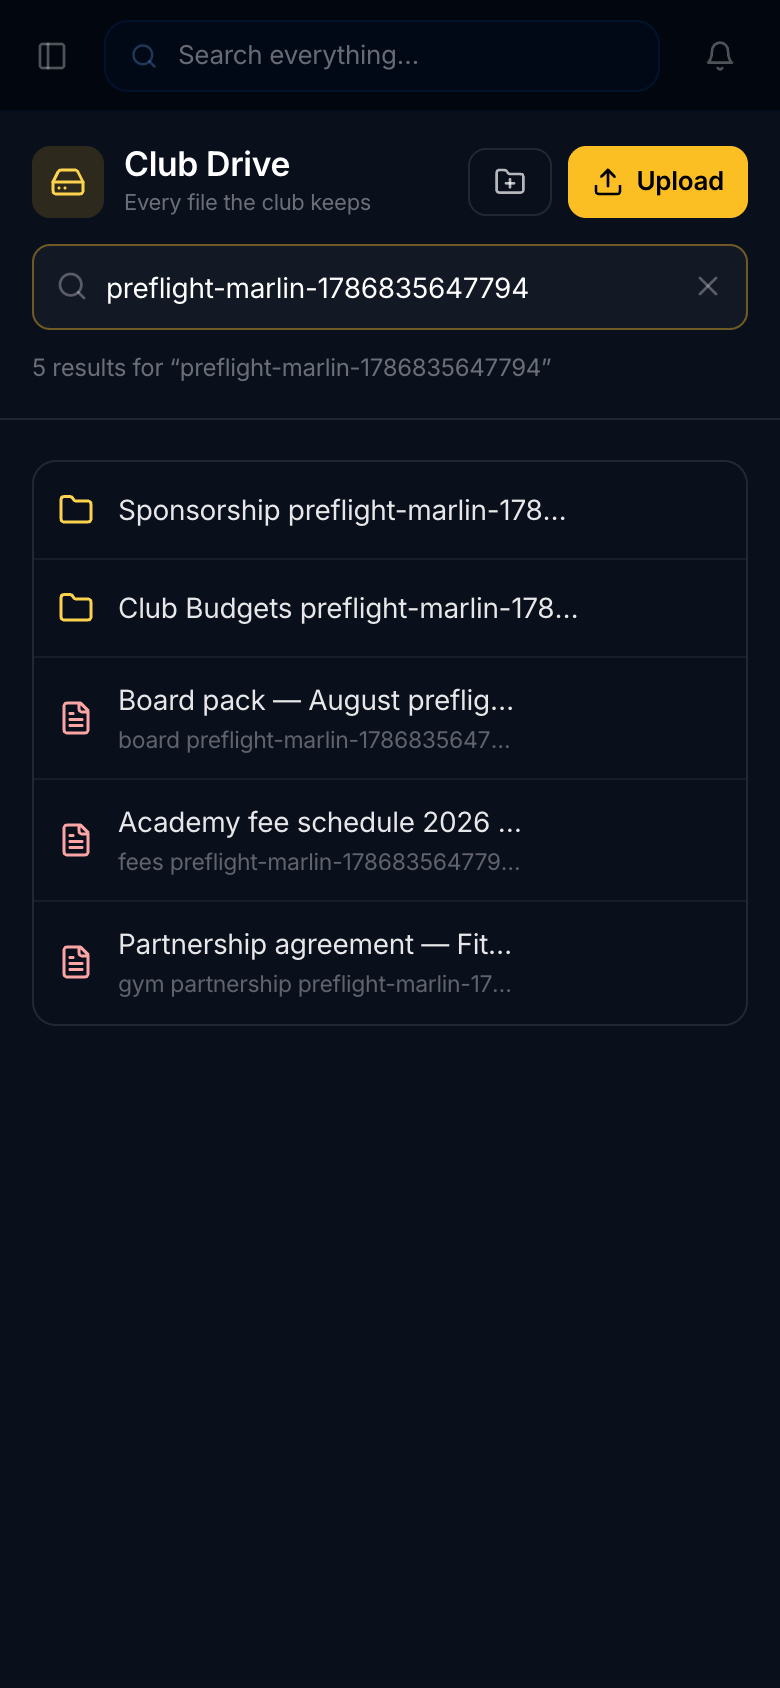
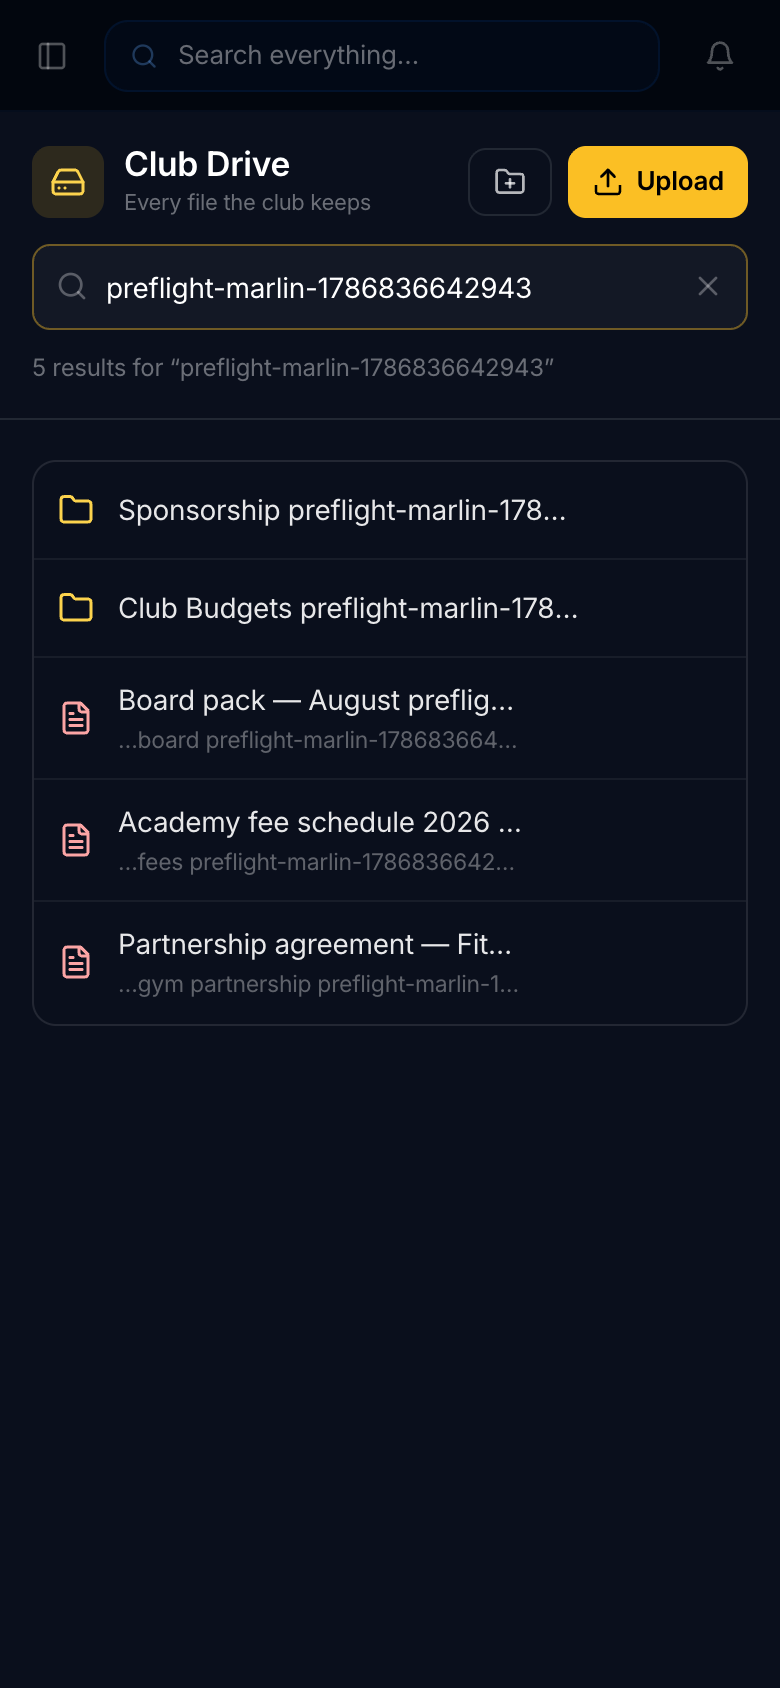
fix(drive): lock contracts, payroll and medical records found in the import
Folder-level gating was not enough. Reading a screenshot of real search results
showed two players' SIGNED CONTRACTS coming back for an ordinary staff account,
from 'SIU - South Island United/Player Contracts/SIU Signed Contracts' several
levels below an unlocked folder.

A sweep found 17 more open folders (Payroll Information, OFC Medicals,
Pre-Competition Medical Assessments, safeguarding plans) and 42 individual
files — the GM's employment agreement, four role contracts, a remuneration
report, the Academy Director's signed contract, and a passports file.

🔴 Matched on NAMES, never content: a policy that merely mentions payroll is
not a payslip, and content matching would have locked half the drive.

⚠ This is a heuristic with a tail. It is a floor, not a guarantee — a human
still has to review what is open.

Claude-Session: https://claude.ai/code/session_011Bzn9TaF5kVeZXPNVpbrTa

diff --git a/script/lock-sensitive-folders.ts b/script/lock-sensitive-folders.ts
@@ -1,0 +1,62 @@
+// Lock folders at ANY depth whose names indicate contracts, money, identity or
+// medical records.
+//
+//   Preview: npx tsx --env-file=.env script/lock-sensitive-folders.ts --list
+//   Apply:   npx tsx --env-file=.env script/lock-sensitive-folders.ts
+//
+// 🔴 preseed-drive-gates.ts only covers the TOP level, which is not enough: the
+// import surfaced "SIU - South Island United/Player Contracts/SIU Signed
+// Contracts" and "Payroll Information" several levels down inside otherwise
+// perfectly ordinary folders. Found by reading a screenshot of real search
+// results, not by reading the tree — two players' signed contracts came back
+// for an ordinary staff account.
+//
+// Gates accumulate downward, so locking the folder locks everything under it.
+import { Pool } from "pg";
+
+const LIST = process.argv.includes("--list");
+const PAT = ['contract','salary','salaries','payment','payroll','wage','passport','visa',
+             'medical','bank','tax','ird','confidential','private','personal','tenanc',
+             'bond','disciplinary','safeguard','payslip','remuneration'];
+
+// 🔴 FILES matter as much as folders. Folder gating cannot catch an employment
+// agreement sitting in an otherwise ordinary folder — the real drive had the
+// GM's contract, four role contracts, a remuneration report and a passports
+// file all readable by every staff account. NAME patterns only: a policy that
+// merely mentions payroll is not a payslip, so matching on content would lock
+// half the drive.
+const FILE_PAT = ['contract','payslip','salary','remuneration','passport','visa application',
+                  'payroll','bank account','tenancy agreement','employment agreement','offer letter',
+                  // A signed personal document rarely says "contract" in its
+                  // name: the Academy Director's was "PH - Academy Director 2026
+                  // - Signed.pdf" and slipped straight through.
+                  '- signed','signed -','_signed','agreement'];
+
+const pool = new Pool({ connectionString: process.env.DATABASE_URL, ssl: { rejectUnauthorized: false } });
+const like = PAT.map((_, i) => `lower(n.name) LIKE $${i + 1}`).join(" OR ");
+const { rows } = await pool.query(`
+  SELECT n.id, n.name, coalesce(g.gates,'{}') AS gates
+  FROM drive_nodes n LEFT JOIN drive_node_gates g ON g.id = n.id
+  WHERE n.kind='folder' AND n.trashed_at IS NULL AND n.required_tab IS NULL
+    AND coalesce(g.gates,'{}') = '{}' AND (${like})
+  ORDER BY n.name`, PAT.map(x => `%${x}%`));
+
+console.log(`\n${rows.length} unlocked folder(s) matched:\n`);
+for (const r of rows) console.log(`  ${r.name}`);
+if (LIST) { console.log(""); await pool.end(); process.exit(0); }
+
+for (const r of rows) {
+  await pool.query(`UPDATE drive_nodes SET required_tab='budget' WHERE id=$1`, [r.id]);
+}
+console.log(`\n  locked ${rows.length} folder(s) to super-admin (everything beneath inherits)`);
+
+const fileLike = FILE_PAT.map((_, i) => `lower(n.name) LIKE $${i + 1}`).join(" OR ");
+const files = await pool.query(`
+  SELECT n.id, n.name FROM drive_nodes n LEFT JOIN drive_node_gates g ON g.id = n.id
+  WHERE n.kind='file' AND n.trashed_at IS NULL AND n.required_tab IS NULL
+    AND coalesce(g.gates,'{}') = '{}' AND (${fileLike})`, FILE_PAT.map(x => `%${x}%`));
+for (const f of files.rows) {
+  await pool.query(`UPDATE drive_nodes SET required_tab='budget' WHERE id=$1`, [f.id]);
+}
+console.log(`  locked ${files.rows.length} individual file(s) by name\n`);
+await pool.end();

diff --git a/script/_shot-real.ts b/script/_shot-real.ts
@@ -1,0 +1,37 @@
+import pg from "pg"; import bcrypt from "bcryptjs"; import puppeteer from "puppeteer-core";
+import { mkdirSync } from "fs"; import { join } from "path";
+const BASE="https://app.usg.co.nz";
+const CHROME=process.env.CHROME_PATH || "/Applications/Google Chrome.app/Contents/MacOS/Google Chrome";
+const OUT=join(process.cwd(),"outputs","drive-preflight"); mkdirSync(OUT,{recursive:true});
+const p=new pg.Pool({connectionString:process.env.DATABASE_URL,ssl:{rejectUnauthorized:false}});
+const email=`_shot_${Date.now()}@usg.co.nz`, pw=`T${Math.random().toString(36).slice(2)}!aA9`;
+const {rows}=await p.query(`INSERT INTO users (email,first_name,last_name,password,role,active) VALUES ($1,'Real','View',$2,'team_member',true) RETURNING id`,[email,await bcrypt.hash(pw,10)]);
+const uid=rows[0].id;
+await p.query(`INSERT INTO user_organizations (user_id,organization_id,role,tabs) VALUES ($1,2,'admin',NULL)`,[uid]);
+const login=await fetch(`${BASE}/api/auth/login`,{method:"POST",headers:{"Content-Type":"application/json"},body:JSON.stringify({email,password:pw})});
+const raw=login.headers.get("set-cookie")||""; const [cn,cv]=raw.split(";")[0].split("=");
+// A real folder with real Google Docs in it.
+const f=await p.query(`SELECT parent_id FROM drive_nodes WHERE source_url LIKE '%docs.google.com/document/%' AND parent_id IS NOT NULL
+  AND NOT EXISTS (SELECT 1 FROM drive_node_gates g WHERE g.id=drive_nodes.id AND g.gates<>'{}') LIMIT 1`);
+const folderId=f.rows[0]?.parent_id;
+const b=await puppeteer.launch({executablePath:CHROME,headless:"new",args:["--no-sandbox"]});
+for (const [label,w,h,mob] of [["real-desktop",1440,900,false],["real-mobile",390,844,true]] as const) {
+  const pg2=await b.newPage();
+  await pg2.setViewport({width:w,height:h,isMobile:mob,hasTouch:mob,deviceScaleFactor:2});
+  if(mob) await pg2.setUserAgent("Mozilla/5.0 (iPhone; CPU iPhone OS 17_5 like Mac OS X) AppleWebKit/605.1.15 (KHTML, like Gecko) Version/17.5 Mobile/15E148 Safari/604.1");
+  await pg2.setCookie({name:cn,value:cv,domain:"app.usg.co.nz",path:"/",httpOnly:true,secure:true});
+  await pg2.goto(`${BASE}/admin`,{waitUntil:"domcontentloaded",timeout:60000});
+  await pg2.evaluate(()=>localStorage.setItem("clubos_workspace","christchurch-united"));
+  await pg2.goto(`${BASE}/admin/drive`,{waitUntil:"networkidle2",timeout:60000});
+  await new Promise(r=>setTimeout(r,2000));
+  const box=await pg2.$('input[placeholder*="Search names"]');
+  if(box){ await box.click(); await pg2.keyboard.type("monthly staff report"); }
+  await new Promise(r=>setTimeout(r,3500));
+  await pg2.screenshot({path:join(OUT,`${label}.png`)});
+  console.log(`  → ${label}.png`);
+  await pg2.close();
+}
+await b.close();
+await p.query(`DELETE FROM drive_access_log WHERE user_id=$1`,[uid]).catch(()=>{});
+await p.query(`DELETE FROM user_organizations WHERE user_id=$1`,[uid]);
+await p.query(`DELETE FROM users WHERE id=$1`,[uid]); await p.end();

diff --git a/script/_contractcheck.ts b/script/_contractcheck.ts
@@ -1,0 +1,18 @@
+import pg from "pg"; import bcrypt from "bcryptjs";
+const BASE="https://app.usg.co.nz";
+const p=new pg.Pool({connectionString:process.env.DATABASE_URL,ssl:{rejectUnauthorized:false}});
+const email=`_cc_${Date.now()}@usg.co.nz`, pw=`T${Math.random().toString(36).slice(2)}!aA9`;
+const {rows}=await p.query(`INSERT INTO users (email,first_name,last_name,password,role,active) VALUES ($1,'C','C',$2,'team_member',true) RETURNING id`,[email,await bcrypt.hash(pw,10)]);
+const uid=rows[0].id;
+await p.query(`INSERT INTO user_organizations (user_id,organization_id,role,tabs) VALUES ($1,2,'admin',NULL)`,[uid]);
+const login=await fetch(`${BASE}/api/auth/login`,{method:"POST",headers:{"Content-Type":"application/json"},body:JSON.stringify({email,password:pw})});
+const cookie=(login.headers.getSetCookie?.()??[]).map(c=>c.split(";")[0]).join("; ");
+for (const q of ["signed contract","payroll","medical"]) {
+  const r=await fetch(`${BASE}/api/admin/drive/search?q=${encodeURIComponent(q)}`,{headers:{cookie,"X-Workspace-Slug":"christchurch-united"}});
+  const j:any=await r.json();
+  console.log(`  "${q}" → ${j.items?.length ?? 0} results for an ordinary staff member`);
+  for (const i of (j.items??[]).slice(0,3)) console.log(`      ${String(i.name).slice(0,58)}`);
+}
+await p.query(`DELETE FROM drive_access_log WHERE user_id=$1`,[uid]).catch(()=>{});
+await p.query(`DELETE FROM user_organizations WHERE user_id=$1`,[uid]);
+await p.query(`DELETE FROM users WHERE id=$1`,[uid]); await p.end();

diff --git a/script/_sensitive-scan.ts b/script/_sensitive-scan.ts
@@ -1,0 +1,25 @@
+// Find folders at ANY depth whose names indicate contracts, money, identity or
+// medical records — the classes that must not be browsable by every staffer.
+import pg from "pg";
+const p = new pg.Pool({ connectionString: process.env.DATABASE_URL, ssl: { rejectUnauthorized: false } });
+const PAT = ['contract','salary','salaries','payment','payroll','wage','passport','visa',
+             'medical','bank','tax','ird','confidential','private','personal','tenanc',
+             'bond','disciplinary','safeguard','insurance','payslip','remuneration'];
+const like = PAT.map((_, i) => `lower(n.name) LIKE $${i + 1}`).join(" OR ");
+const r = await p.query(`
+  SELECT n.id, n.name,
+    (SELECT count(*) FROM drive_nodes d WHERE d.parent_id = n.id)::int kids,
+    coalesce(g.gates,'{}') AS gates
+  FROM drive_nodes n LEFT JOIN drive_node_gates g ON g.id = n.id
+  WHERE n.kind='folder' AND n.trashed_at IS NULL AND (${like})
+  ORDER BY (coalesce(g.gates,'{}') = '{}') DESC, n.name`,
+  PAT.map(x => `%${x}%`));
+console.log(`\n${r.rows.length} folders matched a sensitive keyword:\n`);
+let open = 0;
+for (const x of r.rows) {
+  const locked = (x.gates ?? []).length > 0;
+  if (!locked) open++;
+  console.log(`  ${locked ? "🔒 already" : "⚠  OPEN  "}  ${String(x.name).slice(0,48).padEnd(50)} ${String(x.kids).padStart(3)} items`);
+}
+console.log(`\n  ${open} of ${r.rows.length} are currently readable by every staff member\n`);
+await p.end();

diff --git a/script/_sensitive-files.ts b/script/_sensitive-files.ts
@@ -1,0 +1,18 @@
+import pg from "pg";
+const p = new pg.Pool({ connectionString: process.env.DATABASE_URL, ssl: { rejectUnauthorized: false } });
+// NAME patterns only. Content matches are far too broad — a policy that merely
+// mentions payroll is not a payslip.
+const PAT = ['contract','payslip','salary','remuneration','passport','visa application',
+             'payroll','bank account','tenancy agreement','employment agreement','offer letter'];
+const like = PAT.map((_, i) => `lower(n.name) LIKE $${i + 1}`).join(" OR ");
+const r = await p.query(`
+  SELECT n.id, n.name, coalesce(g.gates,'{}') AS gates
+  FROM drive_nodes n LEFT JOIN drive_node_gates g ON g.id = n.id
+  WHERE n.kind='file' AND n.trashed_at IS NULL AND (${like})
+  ORDER BY (coalesce(g.gates,'{}')='{}') DESC, n.name`, PAT.map(x => `%${x}%`));
+const open = r.rows.filter((x: any) => (x.gates ?? []).length === 0);
+console.log(`\n${r.rows.length} files match a sensitive NAME · ${open.length} still open:\n`);
+for (const x of open.slice(0, 25)) console.log(`  ⚠  ${String(x.name).slice(0, 66)}`);
+if (open.length > 25) console.log(`  …and ${open.length - 25} more`);
+console.log("");
+await p.end();

diff --git a/script/_final.ts b/script/_final.ts
@@ -1,0 +1,12 @@
+import pg from "pg";
+const p = new pg.Pool({ connectionString: process.env.DATABASE_URL, ssl: { rejectUnauthorized: false } });
+const t = await p.query(`SELECT count(*) FILTER (WHERE kind='folder')::int f, count(*) FILTER (WHERE kind='file')::int fi,
+  count(*) FILTER (WHERE extract_status='done')::int idx, pg_size_pretty(sum(size_bytes)) b FROM drive_nodes WHERE trashed_at IS NULL`);
+const g = await p.query(`SELECT count(*) FILTER (WHERE gates <> '{}')::int locked, count(*)::int total FROM drive_node_gates`);
+const l = await p.query(`SELECT count(*)::int n FROM drive_nodes WHERE source_url LIKE '%docs.google.com/%'`);
+console.log(`\n  folders            ${t.rows[0].f}`);
+console.log(`  files              ${t.rows[0].fi}   (${t.rows[0].b})`);
+console.log(`  searchable inside  ${t.rows[0].idx}`);
+console.log(`  live Google docs   ${l.rows[0].n}`);
+console.log(`  locked to Daniel   ${g.rows[0].locked} of ${g.rows[0].total} nodes\n`);
+await p.end();
